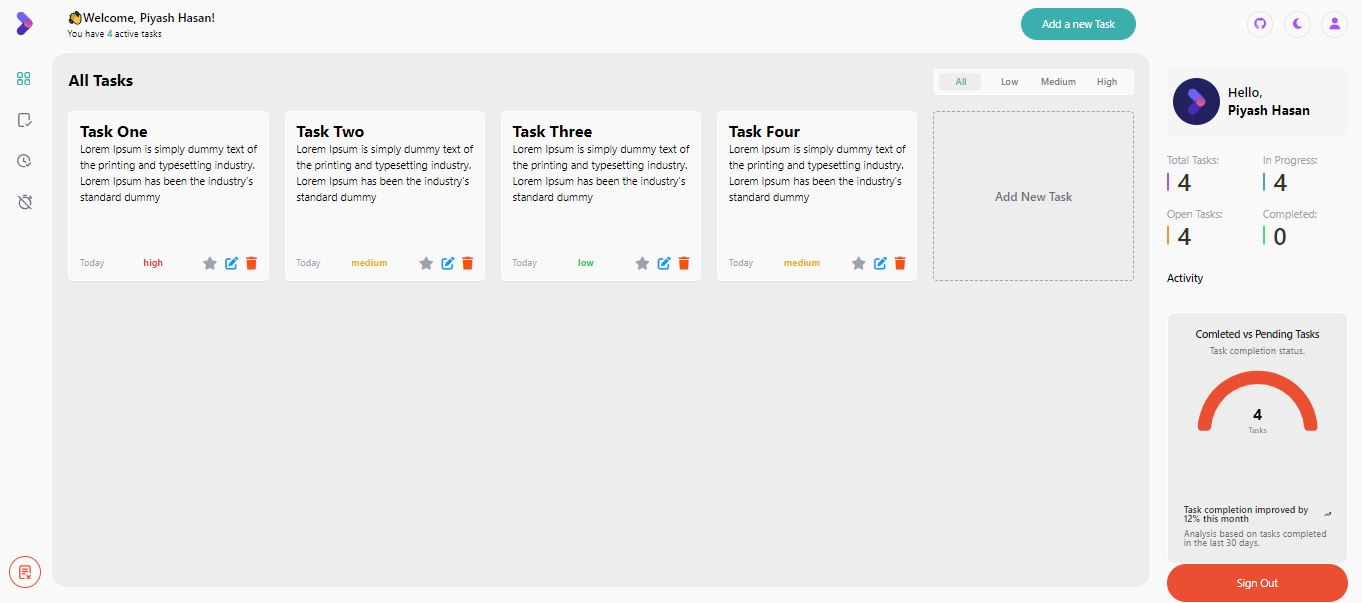
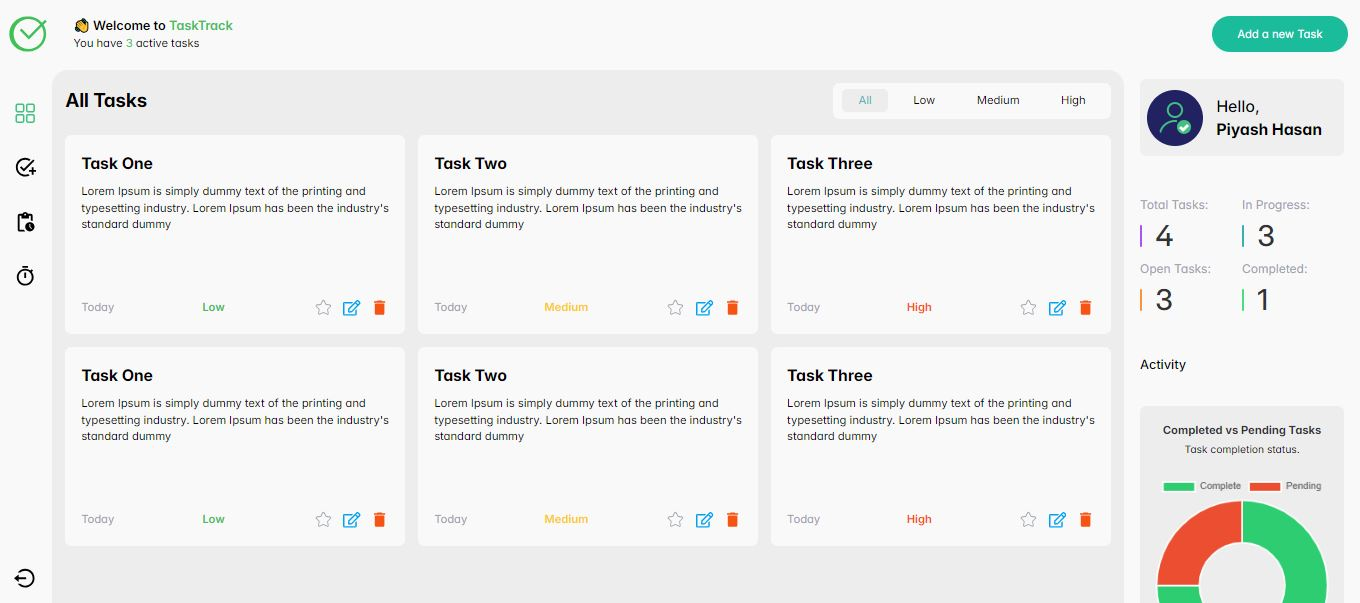
feat: Dashboard layout - In progress

diff --git a/src/components/Dashboard/TaskItems/TaskItems.jsx b/src/components/Dashboard/TaskItems/TaskItems.jsx
@@ -1,0 +1,108 @@
+import { CiStar } from "react-icons/ci";
+import { FaRegEdit } from "react-icons/fa";
+import { MdDelete } from "react-icons/md";
+
+const TaskItems = () => {
+  return (
+    <div className="grid grid-cols-3 gap-4">
+      <div className="bg-[#F9F9F9] p-5 rounded-lg max-h-[300px]">
+        <h5 className="text-xl font-bold leading-8">Task One</h5>
+        <p className="text-[14px] mt-2">
+          Lorem Ipsum is simply dummy text of the printing and typesetting
+          industry. Lorem Ipsum has been the industry&apos;s standard dummy
+        </p>
+        <div className="flex items-center justify-between mt-20">
+          <p className="text-[#9CA3AF] text-[14px]">Today</p>
+          <p className="text-[#40C057] text-[14px] font-semibold">Low</p>
+          <div className="flex items-center gap-3">
+            <CiStar className="text-[#9CA3AF] text-[26px] cursor-pointer" />
+            <FaRegEdit className="text-[#00A1F1] text-[22px] cursor-pointer" />
+            <MdDelete className="text-[#F65314] text-[24px] cursor-pointer" />
+          </div>
+        </div>
+      </div>
+      <div className="bg-[#F9F9F9] p-5 rounded-lg max-h-[300px]">
+        <h5 className="text-xl font-bold leading-8">Task Two</h5>
+        <p className="text-[14px] mt-2">
+          Lorem Ipsum is simply dummy text of the printing and typesetting
+          industry. Lorem Ipsum has been the industry&apos;s standard dummy
+        </p>
+        <div className="flex items-center justify-between mt-20">
+          <p className="text-[#9CA3AF] text-[14px]">Today</p>
+          <p className="text-[#FACC15] text-[14px] font-semibold">Medium</p>
+          <div className="flex items-center gap-3">
+            <CiStar className="text-[#9CA3AF] text-[26px] cursor-pointer" />
+            <FaRegEdit className="text-[#00A1F1] text-[22px] cursor-pointer" />
+            <MdDelete className="text-[#F65314] text-[24px] cursor-pointer" />
+          </div>
+        </div>
+      </div>
+      <div className="bg-[#F9F9F9] p-5 rounded-lg max-h-[300px]">
+        <h5 className="text-xl font-bold leading-8">Task Three</h5>
+        <p className="text-[14px] mt-2">
+          Lorem Ipsum is simply dummy text of the printing and typesetting
+          industry. Lorem Ipsum has been the industry&apos;s standard dummy
+        </p>
+        <div className="flex items-center justify-between mt-20">
+          <p className="text-[#9CA3AF] text-[14px]">Today</p>
+          <p className="text-[#F65314] text-[14px] font-semibold">High</p>
+          <div className="flex items-center gap-3">
+            <CiStar className="text-[#9CA3AF] text-[26px] cursor-pointer" />
+            <FaRegEdit className="text-[#00A1F1] text-[22px] cursor-pointer" />
+            <MdDelete className="text-[#F65314] text-[24px] cursor-pointer" />
+          </div>
+        </div>
+      </div>
+      <div className="bg-[#F9F9F9] p-5 rounded-lg max-h-[300px]">
+        <h5 className="text-xl font-bold leading-8">Task One</h5>
+        <p className="text-[14px] mt-2">
+          Lorem Ipsum is simply dummy text of the printing and typesetting
+          industry. Lorem Ipsum has been the industry&apos;s standard dummy
+        </p>
+        <div className="flex items-center justify-between mt-20">
+          <p className="text-[#9CA3AF] text-[14px]">Today</p>
+          <p className="text-[#40C057] text-[14px] font-semibold">Low</p>
+          <div className="flex items-center gap-3">
+            <CiStar className="text-[#9CA3AF] text-[26px] cursor-pointer" />
+            <FaRegEdit className="text-[#00A1F1] text-[22px] cursor-pointer" />
+            <MdDelete className="text-[#F65314] text-[24px] cursor-pointer" />
+          </div>
+        </div>
+      </div>
+      <div className="bg-[#F9F9F9] p-5 rounded-lg max-h-[300px]">
+        <h5 className="text-xl font-bold leading-8">Task Two</h5>
+        <p className="text-[14px] mt-2">
+          Lorem Ipsum is simply dummy text of the printing and typesetting
+          industry. Lorem Ipsum has been the industry&apos;s standard dummy
+        </p>
+        <div className="flex items-center justify-between mt-20">
+          <p className="text-[#9CA3AF] text-[14px]">Today</p>
+          <p className="text-[#FACC15] text-[14px] font-semibold">Medium</p>
+          <div className="flex items-center gap-3">
+            <CiStar className="text-[#9CA3AF] text-[26px] cursor-pointer" />
+            <FaRegEdit className="text-[#00A1F1] text-[22px] cursor-pointer" />
+            <MdDelete className="text-[#F65314] text-[24px] cursor-pointer" />
+          </div>
+        </div>
+      </div>
+      <div className="bg-[#F9F9F9] p-5 rounded-lg max-h-[300px]">
+        <h5 className="text-xl font-bold leading-8">Task Three</h5>
+        <p className="text-[14px] mt-2">
+          Lorem Ipsum is simply dummy text of the printing and typesetting
+          industry. Lorem Ipsum has been the industry&apos;s standard dummy
+        </p>
+        <div className="flex items-center justify-between mt-20">
+          <p className="text-[#9CA3AF] text-[14px]">Today</p>
+          <p className="text-[#F65314] text-[14px] font-semibold">High</p>
+          <div className="flex items-center gap-3">
+            <CiStar className="text-[#9CA3AF] text-[26px] cursor-pointer" />
+            <FaRegEdit className="text-[#00A1F1] text-[22px] cursor-pointer" />
+            <MdDelete className="text-[#F65314] text-[24px] cursor-pointer" />
+          </div>
+        </div>
+      </div>
+    </div>
+  );
+};
+
+export default TaskItems;

diff --git a/src/App.css b/src/App.css
@@ -7,7 +7,7 @@
   box-sizing: border-box;
 }
 
-/* scrollbar customize  */
+/* --- scrollbar customize ---  */
 ::-webkit-scrollbar {
   width: 5px;
   height: 100px;
@@ -21,18 +21,27 @@
   background: #2fcd71;
 }
 
+/* --- Hide Scroll Bar --- */
+.scrollbar-hide::-webkit-scrollbar {
+  display: none;
+}
+.scrollbar-hide {
+  -ms-overflow-style: none;
+  scrollbar-width: none;
+}
+
 /* --- Reusable class --- */
 .wrapper {
   max-width: 1300px;
   margin: 0 auto;
 }
 
-/* tooltip styles */
+/* --- tooltip styles --- */
 .tooltip {
   @apply absolute left-full top-1/2 -translate-y-1/2 ml-2 opacity-0 group-hover:opacity-100 bg-[#41BF81] text-white text-xs rounded px-2 py-1 transition-opacity duration-300 before:content-[''] before:absolute before:-left-2 before:top-1/2 before:-translate-y-1/2 before:border-[4px] before:border-transparent before:border-r-[#41BF81];
 }
 
-/* link active & inActive */
+/* --- link active & inActive --- */
 .active {
   @apply text-[#41BF81] text-[28px];
 }

diff --git a/src/components/Dashboard/PriorityFilterBtn/PriorityFilterBtn.jsx b/src/components/Dashboard/PriorityFilterBtn/PriorityFilterBtn.jsx
@@ -1,0 +1,27 @@
+import { useState } from "react";
+
+const PriorityFilterBtn = () => {
+  const [activePriority, setActivePriority] = useState("All");
+  const priorities = ["All", "Low", "Medium", "High"];
+
+  return (
+    <div className="bg-[#F9F9F9] px-3 py-2 rounded-lg">
+      <div className="flex items-center gap-x-3 text-[14px]">
+        {priorities.map((priority) => (
+          <button
+            key={priority}
+            onClick={() => setActivePriority(priority)}
+            className={`px-5 py-1 rounded-md transition-all duration-300 ease-in-out
+              ${
+                activePriority === priority ? "bg-[#EDEDED] text-[#4AB5B4]" : ""
+              }`}
+          >
+            {priority}
+          </button>
+        ))}
+      </div>
+    </div>
+  );
+};
+
+export default PriorityFilterBtn;

diff --git a/src/pages/Dashboard/CompleteTask/CompleteTask.jsx b/src/pages/Dashboard/CompleteTask/CompleteTask.jsx
@@ -1,9 +1,16 @@
+import PriorityFilterBtn from "../../../components/Dashboard/PriorityFilterBtn/PriorityFilterBtn";
+import Task from "../../../components/Dashboard/Task/Task";
+
 const CompleteTask = () => {
   return (
-    <div className="p-5 bg-[#EDEDED] h-full rounded-t-[20px]">
-      <h2 className="text-[24px] font-bold leading-8 text-black">
-        Complete Tasks
-      </h2>
+    <div className="p-4 bg-[#EDEDED] rounded-t-[20px] h-[calc(100vh-90px)] overflow-y-scroll scrollbar-hide">
+      <div className="flex items-center justify-between">
+        <h2 className="text-[24px] font-bold leading-8 text-black">
+          Complete Tasks
+        </h2>
+        <PriorityFilterBtn />
+      </div>
+      <Task />
     </div>
   );
 };

diff --git a/src/pages/Dashboard/OverDueTask/OverDueTask.jsx b/src/pages/Dashboard/OverDueTask/OverDueTask.jsx
@@ -1,9 +1,16 @@
+import PriorityFilterBtn from "../../../components/Dashboard/PriorityFilterBtn/PriorityFilterBtn";
+import Task from "../../../components/Dashboard/Task/Task";
+
 const OverDueTask = () => {
   return (
-    <div className="p-5 bg-[#EDEDED] h-full rounded-t-[20px]">
-      <h2 className="text-[24px] font-bold leading-8 text-black">
-        Overdue Tasks
-      </h2>
+    <div className="p-4 bg-[#EDEDED] rounded-t-[20px] h-[calc(100vh-90px)] overflow-y-scroll scrollbar-hide">
+      <div className="flex items-center justify-between">
+        <h2 className="text-[24px] font-bold leading-8 text-black">
+          Overdue Tasks
+        </h2>
+        <PriorityFilterBtn />
+      </div>
+      <Task />
     </div>
   );
 };

diff --git a/src/pages/Dashboard/PendingTask/PendingTask.jsx b/src/pages/Dashboard/PendingTask/PendingTask.jsx
@@ -1,9 +1,16 @@
+import PriorityFilterBtn from "../../../components/Dashboard/PriorityFilterBtn/PriorityFilterBtn";
+import Task from "../../../components/Dashboard/Task/Task";
+
 const PendingTask = () => {
   return (
-    <div className="p-5 bg-[#EDEDED] h-full rounded-t-[20px]">
-      <h2 className="text-[24px] font-bold leading-8 text-black">
-        Pending Tasks
-      </h2>
+    <div className="p-4 bg-[#EDEDED] rounded-t-[20px] h-[calc(100vh-90px)] overflow-y-scroll scrollbar-hide">
+      <div className="flex items-center justify-between">
+        <h2 className="text-[24px] font-bold leading-8 text-black">
+          Pending Tasks
+        </h2>
+        <PriorityFilterBtn />
+      </div>
+      <Task />
     </div>
   );
 };

diff --git a/src/pages/Dashboard/AllTask/AllTask.jsx b/src/pages/Dashboard/AllTask/AllTask.jsx
@@ -1,7 +1,16 @@
+import PriorityFilterBtn from "../../../components/Dashboard/PriorityFilterBtn/PriorityFilterBtn";
+import Task from "../../../components/Dashboard/Task/Task";
+
 const AllTask = () => {
   return (
-    <div className="p-5 bg-[#EDEDED] h-full rounded-t-[20px]  border-2 border-[#fff]">
-      <h2 className="text-[24px] font-bold leading-8 text-black">All Tasks</h2>
+    <div className="p-4 bg-[#EDEDED] rounded-t-[20px] h-[calc(100vh-90px)] overflow-y-scroll scrollbar-hide">
+      <div className="flex items-center justify-between">
+        <h2 className="text-[24px] font-bold leading-8 text-black">
+          All Tasks
+        </h2>
+        <PriorityFilterBtn />
+      </div>
+      <Task />
     </div>
   );
 };

diff --git a/src/components/Dashboard/DashNav/DashNav.jsx b/src/components/Dashboard/DashNav/DashNav.jsx
@@ -2,7 +2,7 @@ import { Link } from "react-router-dom";
 import logo from "../../../assets/images/logo.svg";
 const DashNav = () => {
   return (
-    <nav className="bg-[#F9F9F9] p-5 flex items-center justify-between">
+    <nav className="bg-[#F9F9F9] py-5 px-3 flex items-center justify-between">
       <div className="flex items-center gap-x-8">
         <div className="w-[50px] h-[50px] object-contain object-center">
           <Link to="/home">
@@ -23,7 +23,7 @@ const DashNav = () => {
           </p>
         </div>
       </div>
-      <div>
+      <div className="mr-2">
         <button className="bg-[#1ABC9C] text-white text-[14px] px-8 py-3 rounded-full hover:bg-[#00A1F1]">
           Add a new Task
         </button>

diff --git a/src/pages/Main/Home/Home.jsx b/src/pages/Main/Home/Home.jsx
@@ -22,7 +22,7 @@ const Home = () => {
           </Link>
 
           <div className="flex items-center justify-center mt-5">
-            <div className="p-5 max-w-[850px] object-contain shadow-[0px_10px_36px_0px_rgba(0,0,0,0.16),_0px_0px_0px_1px_rgba(0,0,0,0.06)] rounded-md">
+            <div className="p-1 max-w-[850px] object-contain shadow-[0px_10px_36px_0px_rgba(0,0,0,0.16),_0px_0px_0px_1px_rgba(0,0,0,0.06)] rounded-md">
               <img className="rounded-md" src={banner} alt="Banner Image" />
             </div>
           </div>

diff --git a/src/components/Dashboard/Sidebar/Sidebar.jsx b/src/components/Dashboard/Sidebar/Sidebar.jsx
@@ -9,7 +9,7 @@ import { Link, NavLink } from "react-router-dom";
 
 const Sidebar = () => {
   return (
-    <div className="h-[calc(100vh-90px)] bg-[#F9F9F9] px-[30px] pt-10 relative">
+    <div className="h-[calc(100vh-90px)] bg-[#F9F9F9] px-[20px] pt-10 relative all-task">
       <ul className="flex flex-col items-center gap-y-10">
         <li className="relative group">
           <NavLink

diff --git a/src/components/Dashboard/Task/Task.jsx b/src/components/Dashboard/Task/Task.jsx
@@ -1,0 +1,11 @@
+import TaskItems from "../TaskItems/TaskItems";
+
+const Task = () => {
+  return (
+    <div className="mt-5">
+      <TaskItems />
+    </div>
+  );
+};
+
+export default Task;
